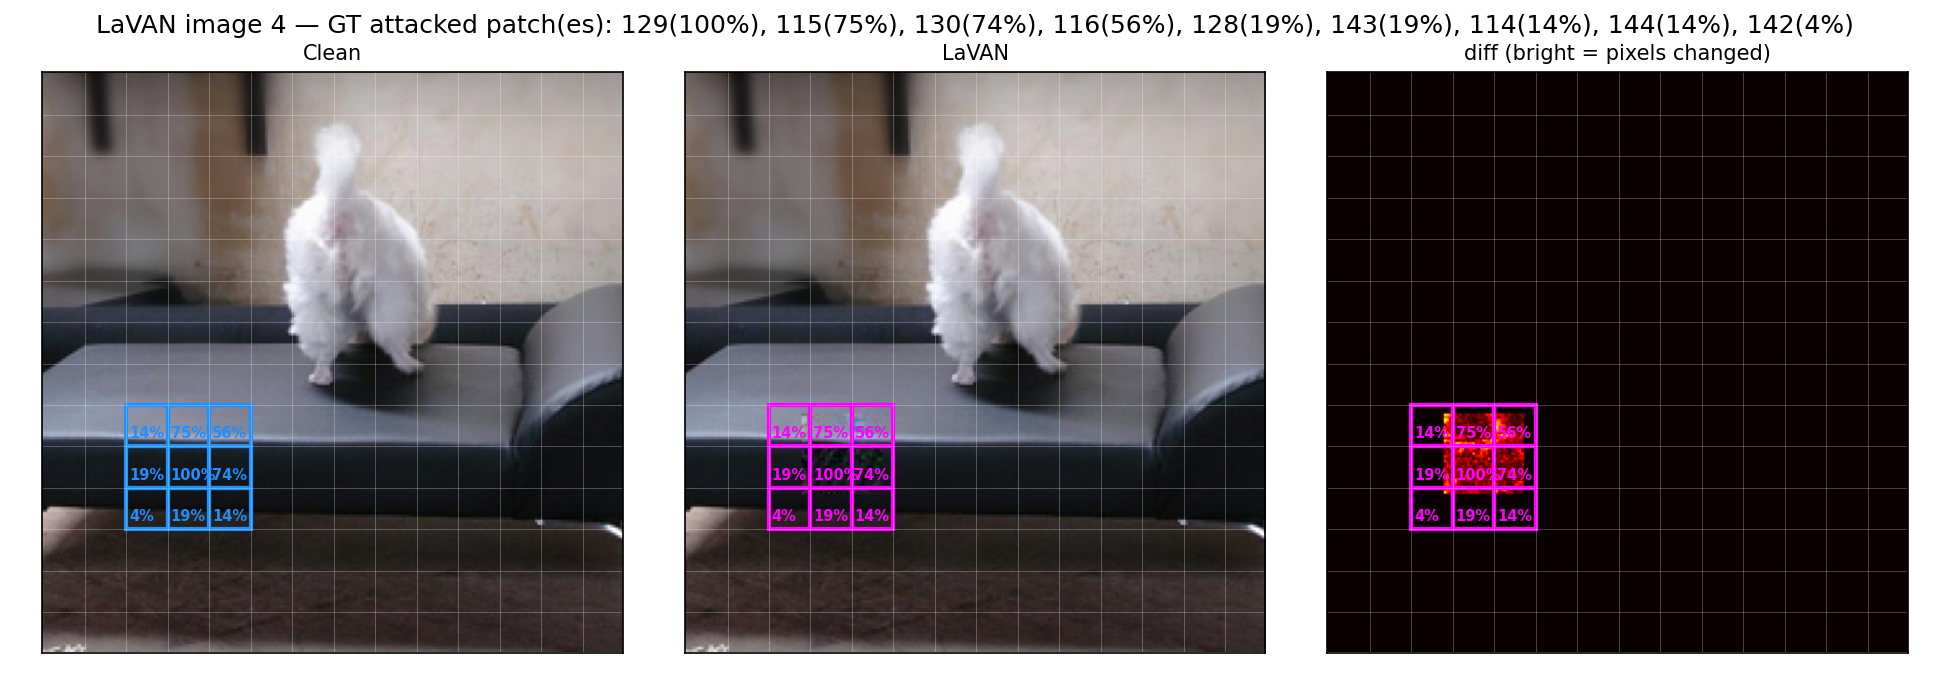
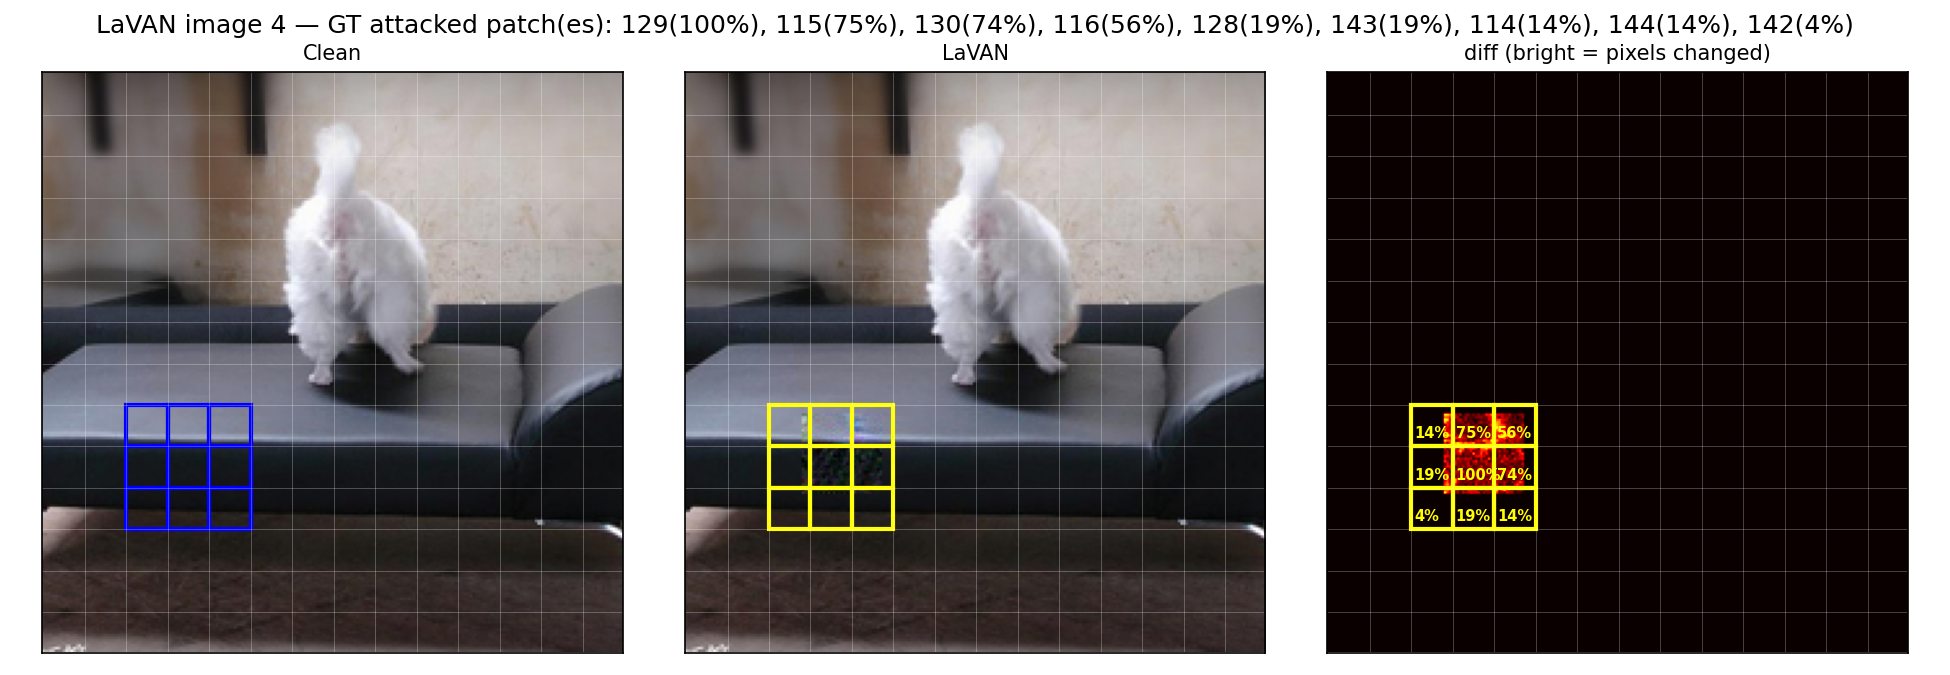
Simplify GT box coloring to blue/yellow, move % labels to diff panel only
Per feedback: three group-specific colors was more than needed -- just
blue for clean, yellow for both attacks. Also the coverage % labels were
showing on the clean and attacked panels where they don't add anything;
now they only appear on the diff panel, which is the one place they're
actually useful (reading off how much of that patch's pixels actually
changed). PatchFool still shows no labels at all (always a single 100%
patch).

Changed region(s): [[0.7077, 0.5911, 0.8, 0.8089], [0.3692, 0.5911, 0.4615, 0.8089], [0.0615, 0.5911, 0.1538, 0.8089]]

diff --git a/01_patch_attack_detector/ground_truth/gt_plot.py b/01_patch_attack_detector/ground_truth/gt_plot.py
@@ -12,11 +12,11 @@ from matplotlib.patches import Rectangle
 from gt_lib import gt_patch_summary, PATCH_SIZE, PPL
 
 GROUP_LABELS = {'clean': 'Clean', 'patchfool': 'PatchFool', 'lavan': 'LaVAN'}
-# 박스 색을 clean/patchfool/lavan마다 다르게 둔다 — clean 패널도 박스를 지우지 않고(안
-# 지워야 같은 위치를 adv 패널과 바로 비교할 수 있다) 색만 다르게 해서 어느 그룹인지
-# 한눈에 구분되게 한다. diff 패널은 'hot' 컬러맵(검정->빨강->주황->노랑->흰색)을 쓰므로
-# 그 범위에 없는 색(파랑/라임/마젠타)을 골라 배경과 겹쳐도 항상 잘 보이게 했다.
-BOX_COLORS = {'clean': 'dodgerblue', 'patchfool': 'lime', 'lavan': 'magenta'}
+# clean 패널은 파랑, 공격(patchfool/lavan) 패널은 전부 노랑 — clean도 박스를 지우지
+# 않는다(지우면 adv 패널과 같은 위치인지 비교하기 어려워진다), 색만 달라서 clean인지
+# 공격인지 한눈에 구분된다.
+CLEAN_BOX_COLOR = 'blue'
+ATTACK_BOX_COLOR = 'yellow'
 
 
 def _unnormalize(img):
@@ -43,12 +43,14 @@ def _draw_patch_box(ax, patch_idx, color, label=None, ppl=PPL, patch_size=PATCH_
 def plot_gt_locations(repr_by_group, img_idx, group, out_path, gt_min_frac=0.01):
     """공격이 실제로 건드린 patch(들)을 [clean | adv | diff 히트맵] 세 장에 박스로 표시한다
     (clean 패널도 박스를 지우지 않는다 — 지우면 adv 패널과 같은 위치인지 비교하기 어려워
-    지므로, 대신 clean은 BOX_COLORS['clean']으로 색을 다르게 줘서 구분한다). 겹침 비율(%)
-    라벨은 LaVAN처럼 patch가 여러 개·부분적으로 겹칠 때만 의미가 있어서 그때만 붙인다 —
-    PatchFool은 항상 patch 정확히 1개가 100%라 라벨 없이 박스만 그린다(title에 patch
-    번호는 그대로 나온다). GT는 순전히 gt_lib.gt_coverage(픽셀 diff)로 계산한 것이고,
-    attention이나 탐지기 결과는 이 그림에 전혀 들어가지 않는다.
-    repr_by_group[group]['images'/'gt_coverage']가 없으면(구버전 npz) 조용히 건너뛴다."""
+    지므로, 대신 clean은 파랑/공격은 노랑으로 색만 달리해서 구분한다). 겹침 비율(%) 라벨은
+    LaVAN처럼 patch가 여러 개·부분적으로 겹칠 때만 의미가 있고, 그중에서도 diff 패널
+    (실제로 무엇이 얼마나 바뀌었는지 보는 곳)에만 적는다 — clean/adv 패널은 GT 위치만
+    보면 되지 겹침 비율 숫자까지 필요하지 않다. PatchFool은 항상 patch 정확히 1개가
+    100%라 어느 패널에도 라벨을 안 붙인다(title에 patch 번호는 그대로 나온다). GT는
+    순전히 gt_lib.gt_coverage(픽셀 diff)로 계산한 것이고, attention이나 탐지기 결과는
+    이 그림에 전혀 들어가지 않는다. repr_by_group[group]['images'/'gt_coverage']가
+    없으면(구버전 npz) 조용히 건너뛴다."""
     if 'images' not in repr_by_group.get('clean', {}) or \
        'images' not in repr_by_group.get(group, {}) or \
        'gt_coverage' not in repr_by_group.get(group, {}):
@@ -63,15 +65,15 @@ def plot_gt_locations(repr_by_group, img_idx, group, out_path, gt_min_frac=0.01)
     diff = np.abs(_unnormalize(adv_img) - _unnormalize(clean_img)).sum(axis=-1)
 
     fig, axes = plt.subplots(1, 3, figsize=(13, 4.5))
-    for ax, img, title, box_color in [
-            (axes[0], _unnormalize(clean_img), 'Clean', BOX_COLORS['clean']),
-            (axes[1], _unnormalize(adv_img), f'{GROUP_LABELS[group]}', BOX_COLORS[group]),
-            (axes[2], diff, 'diff (bright = pixels changed)', BOX_COLORS[group])]:
+    panels = [(axes[0], _unnormalize(clean_img), 'Clean', CLEAN_BOX_COLOR, False),
+              (axes[1], _unnormalize(adv_img), f'{GROUP_LABELS[group]}', ATTACK_BOX_COLOR, False),
+              (axes[2], diff, 'diff (bright = pixels changed)', ATTACK_BOX_COLOR, show_pct)]
+    for ax, img, title, box_color, label_here in panels:
         cmap = None if img.ndim == 3 else 'hot'
         ax.imshow(img, cmap=cmap)
         _draw_patch_grid(ax)
         for p, frac in gt_patches:
-            label = f'{frac:.0%}' if show_pct else None
+            label = f'{frac:.0%}' if label_here else None
             _draw_patch_box(ax, p, box_color, label=label)
         ax.set_xticks([]); ax.set_yticks([])
         ax.set_title(title, fontsize=10)
